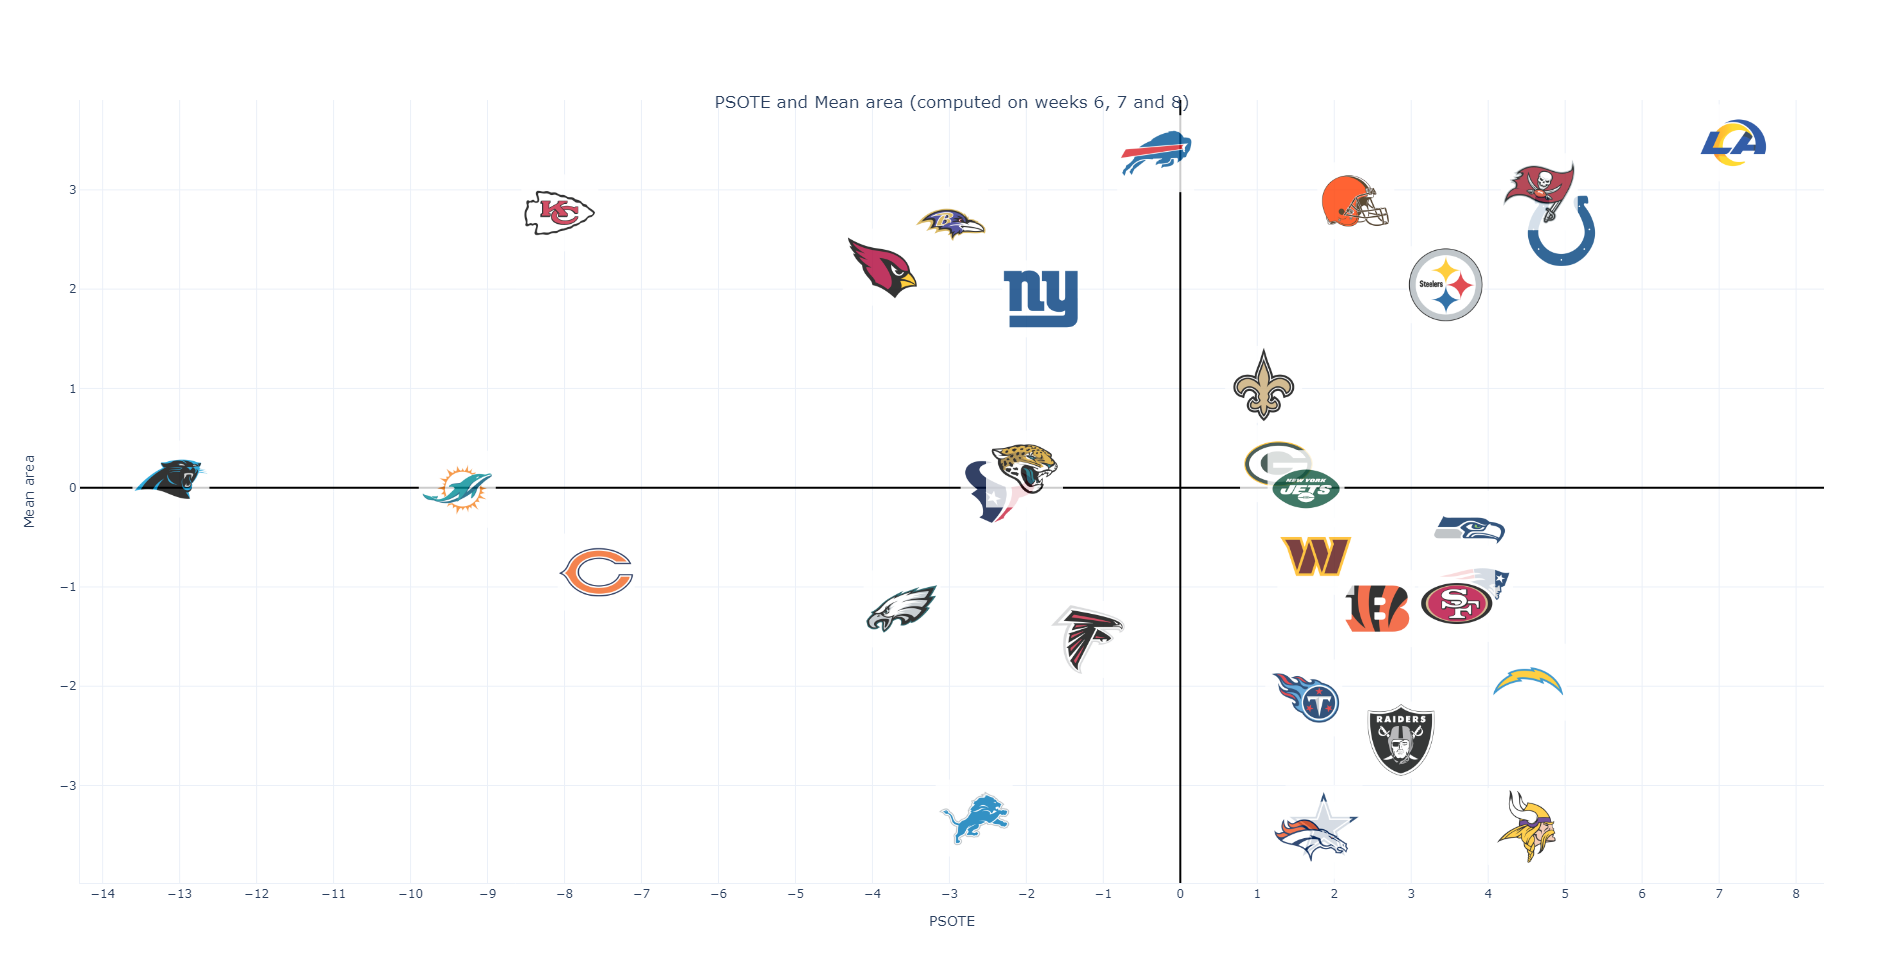
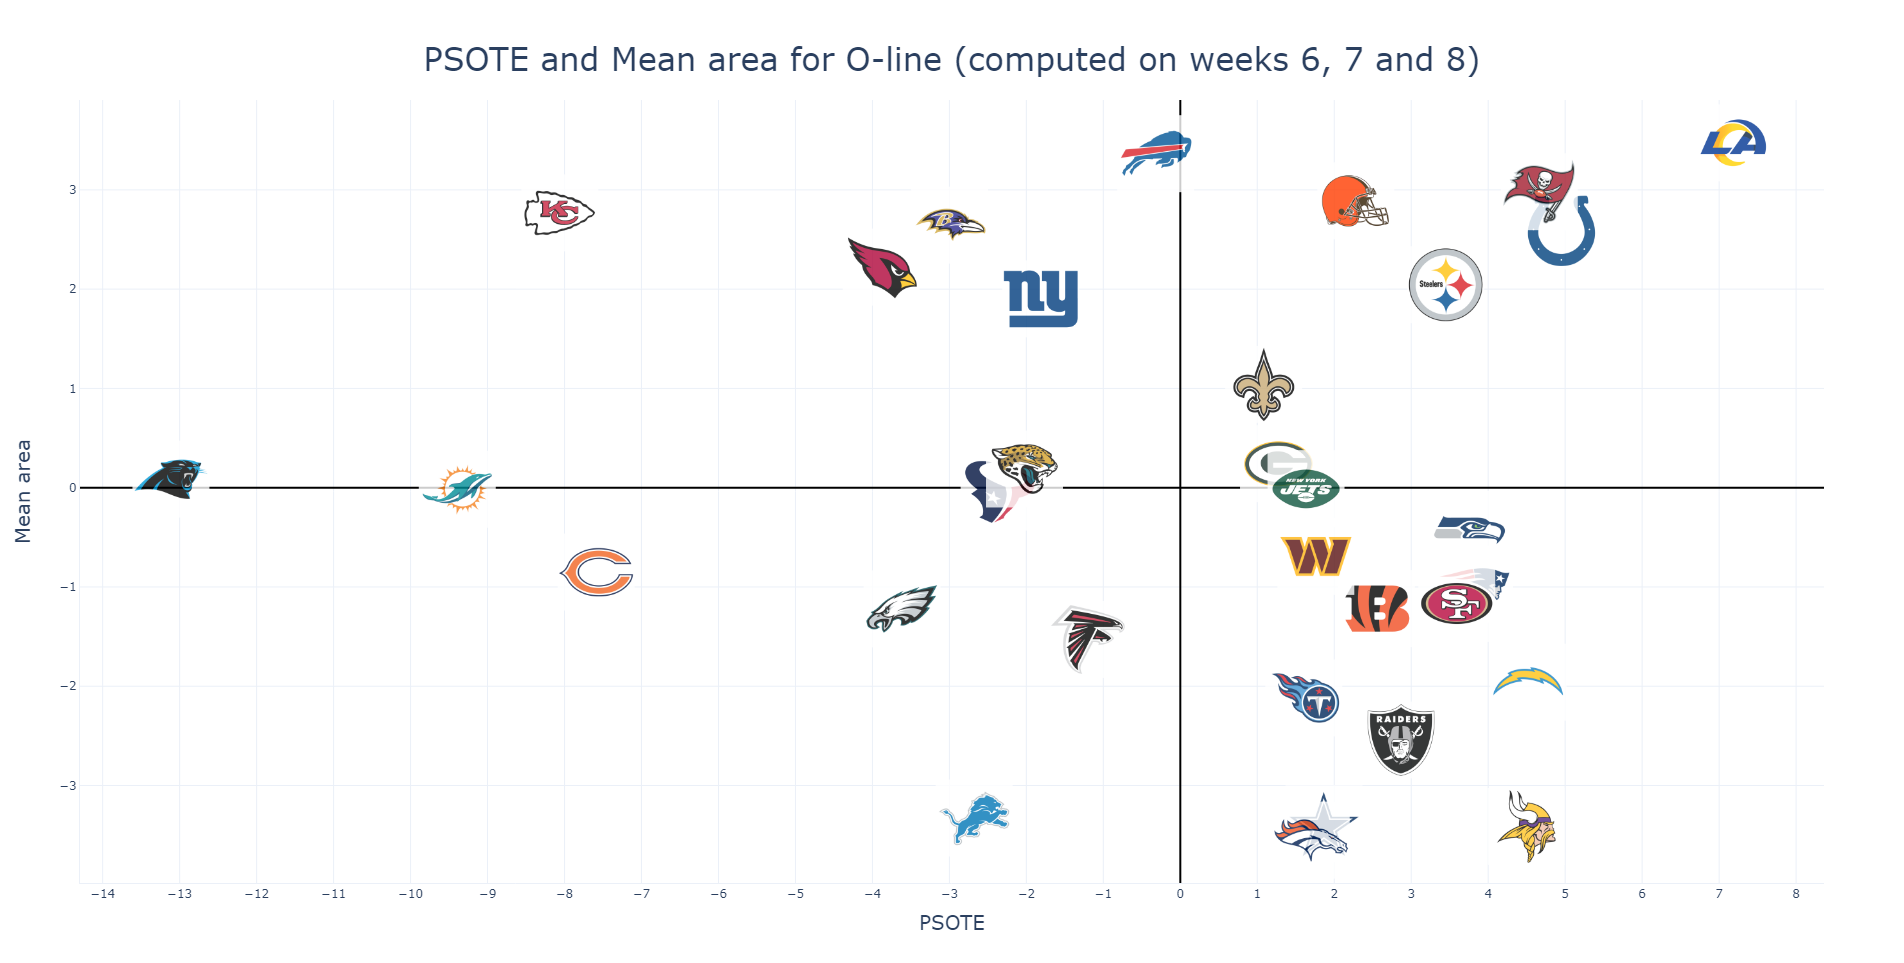
modification du titre des figures

Changed region(s): [[0.2169, 0.0312, 0.7747, 0.1246], [0.0, 0.4673, 0.031, 0.5607], [0.4648, 0.9346, 0.5268, 0.9657]]

diff --git a/validate_metrics.py b/validate_metrics.py
@@ -81,7 +81,7 @@ data_off = pd.merge(xsp_off,area_off_test,how="left",on = "possessionTeam")
 np.corrcoef(data_off.xSuccessPocket,data_off.meanArea) # -0.06
 data_off.loc[:,"xSuccessPocket"] = data_off.loc[:,"xSuccessPocket"] - np.mean(data_off.loc[:,"xSuccessPocket"])
 data_off.loc[:,"meanArea"] = data_off.loc[:,"meanArea"] - np.mean(data_off.loc[:,"meanArea"])
-fig_2D_plot_team(data_off, "xSuccessPocket", "meanArea", "possessionTeam", x_legend = "PSOTE", y_legend = "Mean area", plot_title = "PSOTE and Mean area (computed on weeks 6, 7 and 8)", imagette_size = 1)
+fig_2D_plot_team(data_off, "xSuccessPocket", "meanArea", "possessionTeam", x_legend = "PSOTE", y_legend = "Mean area", plot_title = "PSOTE and Mean area for O-line (computed on weeks 6, 7 and 8)", imagette_size = 1)
 
 ## Defense ##
 data_def = pd.merge(xsp_def,area_def_test,how="left",on = "defensiveTeam")
@@ -97,5 +97,5 @@ fig_2D_plot_team(data_def, "xSuccessPocket", "meanArea", "defensiveTeam", imaget
 # ------------------------------------------------------ #
 
 ## Offense ##
-fig_2D_plot_team(acp_offense, "dim1", "dim2", "team", x_legend = "Dim 1", y_legend = "Dim 2", plot_title = "PCA on the number of sack, hurry and hit (weeks 6, 7 and 8)", imagette_size = 0.4)
+fig_2D_plot_team(acp_offense, "dim1", "dim2", "team", x_legend = "Dim 1", y_legend = "Dim 2", plot_title = "PCA on the number of sack, hurry and hit for O-line (weeks 6, 7 and 8)", imagette_size = 0.4)
 

diff --git a/code/viz.py b/code/viz.py
@@ -391,14 +391,15 @@ def fig_2D_plot_team(df, metric_x, metric_y, linemen, x_legend = "Legend", y_leg
                 template="plotly_white",
                 title={
                     'text': plot_title,
-                    'y':0.9,
+                    'y':0.95,
                     'x':0.5,
-                    'xanchor': 'center',
-                    'yanchor': 'top'}
+                    'font_size': 32,
+                    'xanchor': 'center'}
     )
     fig.update_yaxes(
         title= dict(
             text = y_legend,
+            font_size = 20
         ),
         showline = True, 
         zerolinewidth = 2, 
@@ -408,6 +409,7 @@ def fig_2D_plot_team(df, metric_x, metric_y, linemen, x_legend = "Legend", y_leg
     fig.update_xaxes(
         title= dict(
             text = x_legend,
+            font_size = 20
         ),
         tick0 = 1,
         dtick = 1,
